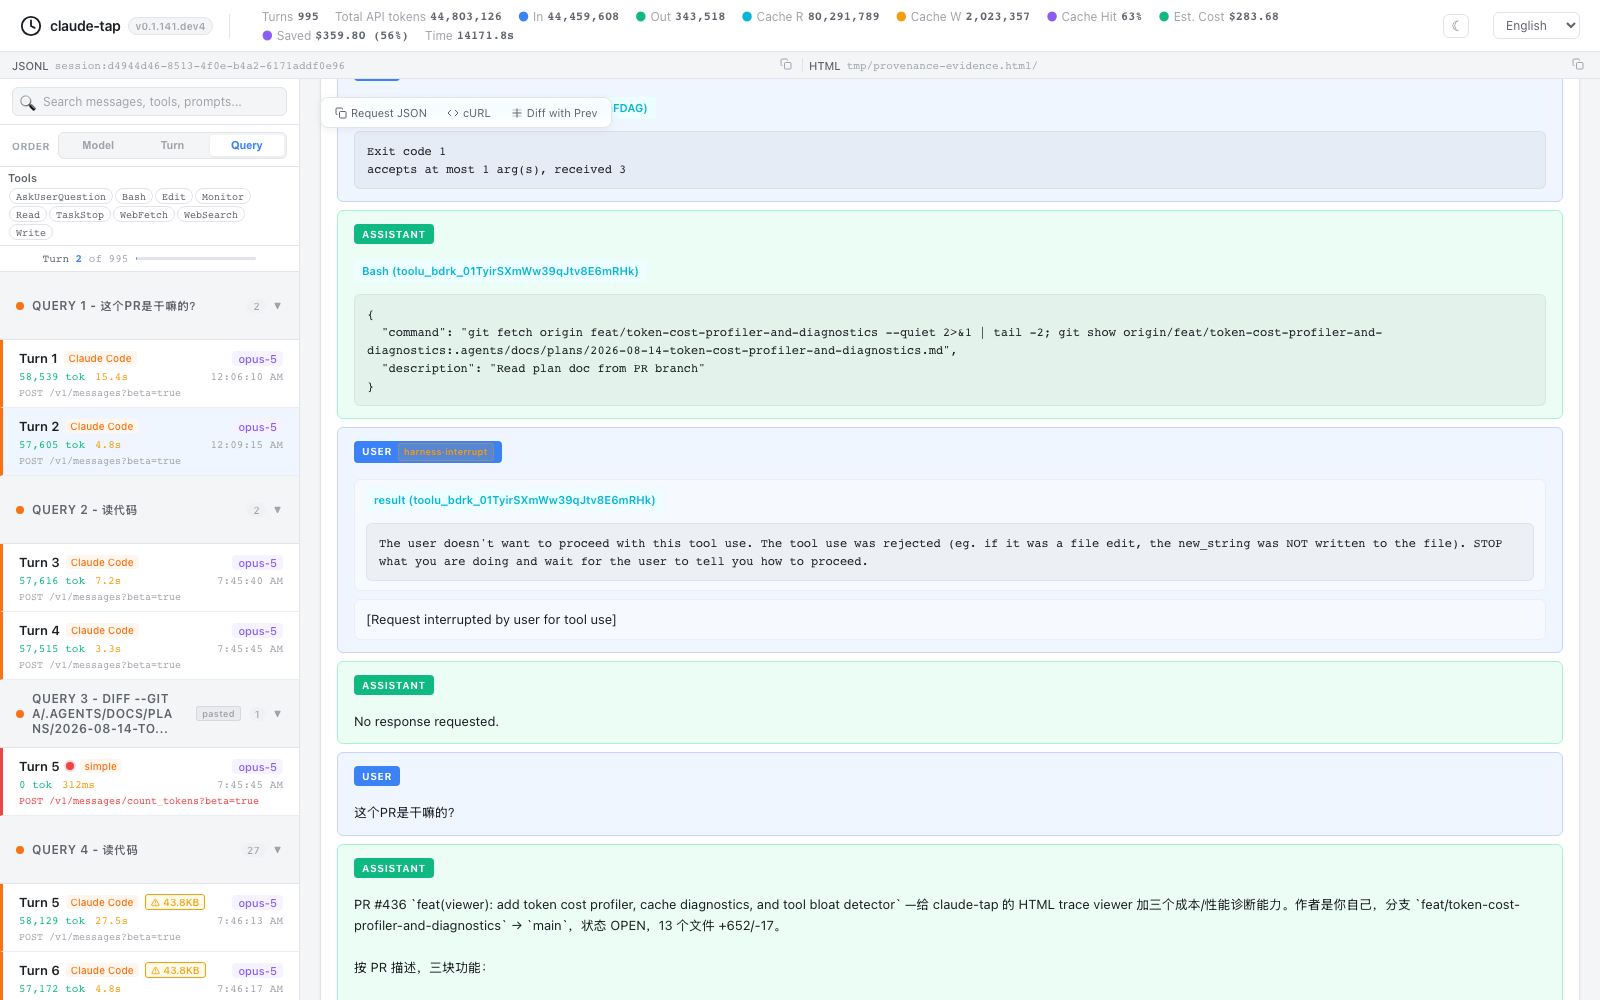
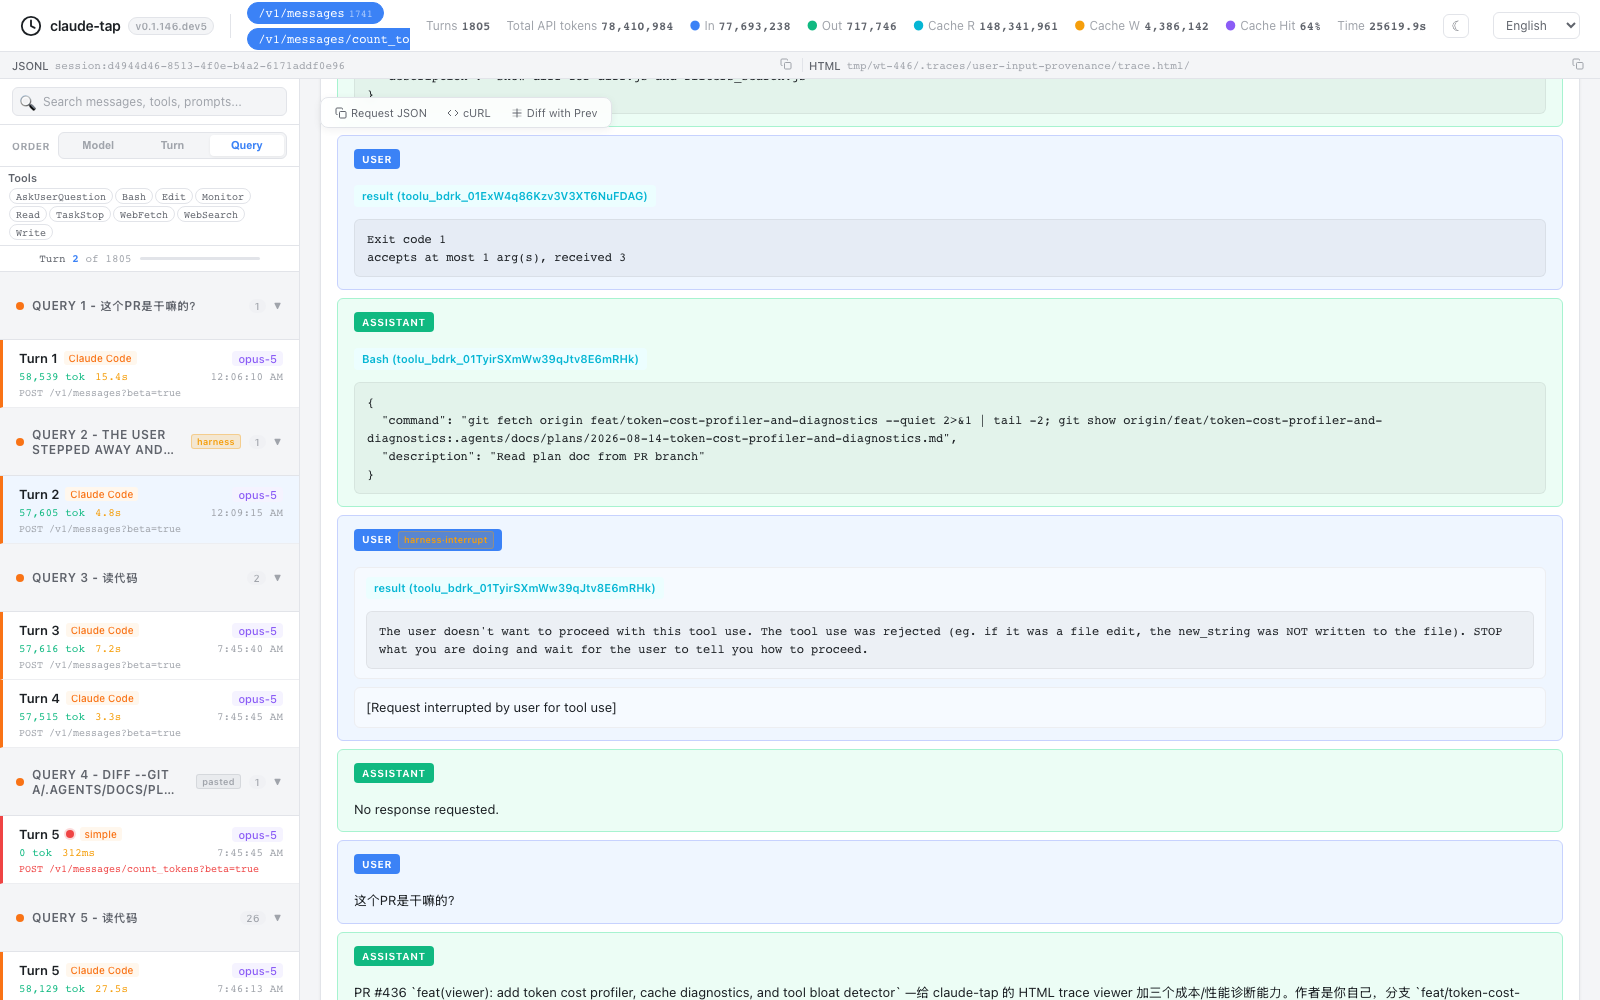
fix(viewer): keep the chosen input origin across the lazy boundary
A turn whose harness block is blanked by the cleaner takes its title from a
later pasted block while deliberately staying classified as harness. Lazy
metadata serialized only the title, so buildStubEntry rebuilt a bare string and
the browser reclassified it as payload: the same group changed its badge as a
capture crossed LAZY_THRESHOLD.

_session_user_title now returns the origin alongside the text and
_extract_metadata serializes it, omitted when it is the human default so large
captures gain no bytes per stub. The three stub fallbacks in sidebar.js read it
instead of guessing from the title, falling back to classification for stubs
written before the field existed.

Also refreshes both provenance evidence assets, which predated the group-title
clamp and still showed a three-line title.

diff --git a/claude_tap/viewer_assets/sidebar.js b/claude_tap/viewer_assets/sidebar.js
@@ -143,7 +143,15 @@ const HARNESS_INPUT_PATTERNS = [
   { kind: 'suggestion', re: /^\[SUGGESTION MODE:/i },
   { kind: 'subagent', re: /^CRITICAL: Respond with TEXT ONLY/i },
   { kind: 'subagent', re: /^Briefly inform the user about the task result/i },
-  { kind: 'subagent', re: /^Analyze if this message indicates/i },
+  /* `^Analyze if this message indicates` used to sit here. Unlike every other
+     entry it is ordinary English, so a human asking "Analyze if this message
+     indicates fraud or a billing mistake" was badged as harness-injected and lost
+     its group title. The other openers earn their place by being unmistakable
+     template text; this one only matched a template's opening words, and no
+     installed CLI build carries the full wording to anchor a longer pattern
+     against. A missed injection costs a badge; a false positive relabels what the
+     user actually typed, so this stays out until the emitted text can be quoted
+     from a capture. Mirrored in viewer.py's _HARNESS_PATTERNS. */
   { kind: 'compaction', re: /^This session is being continued from a previous conversation/i },
   { kind: 'websearch', re: /^Perform a web search for the query:/i },
   { kind: 'attachment', re: /^\[Image(\s*#\d+)?\]|^\[Image:\s*(original|source)/i },
@@ -467,6 +475,16 @@ function stubSessionUserText(entry) {
   return text && !looksLikeBinaryText(text) ? text : '';
 }
 
+/* Provenance for a stub title. Python already decided this against the full
+   message; re-reading the title text is a strictly worse guess, since the block
+   the title came from is no longer visible here. Falls back to reading the text
+   for stubs written before the origin was serialized. */
+function stubSessionUserOrigin(entry, text) {
+  const stored = String(entry?._session_user_origin || '').trim();
+  if (stored) return stored;
+  return classifyUserInputOrigin(text).origin || 'human';
+}
+
 function firstUserInputInfo(entry) {
   if (isProtobufNoiseEntry(entry)) {
     return { userText: '', userIndex: -1, messageCount: 0 };
@@ -493,8 +511,8 @@ function firstUserInputInfo(entry) {
   if (fallback) return fallback;
   const stubText = stubSessionUserText(entry);
   if (stubText) {
-    const { origin } = classifyUserInputOrigin(stubText);
-    return { userText: stubText, userIndex: 0, messageCount: Math.max(msgs.length, 1), origin: origin || 'human' };
+    const origin = stubSessionUserOrigin(entry, stubText);
+    return { userText: stubText, userIndex: 0, messageCount: Math.max(msgs.length, 1), origin };
   }
   return { userText: '', userIndex: -1, messageCount: msgs.length, origin: 'human' };
 }
@@ -517,8 +535,8 @@ function latestUserInputInfo(entry) {
   }
   const stubText = stubSessionUserText(entry);
   if (stubText) {
-    const { origin } = classifyUserInputOrigin(stubText);
-    return { userText: stubText, userIndex: 0, messageCount: Math.max(msgs.length, 1), origin: origin || 'human' };
+    const origin = stubSessionUserOrigin(entry, stubText);
+    return { userText: stubText, userIndex: 0, messageCount: Math.max(msgs.length, 1), origin };
   }
   return { userText: '', userIndex: -1, messageCount: msgs.length, origin: 'human' };
 }
@@ -535,9 +553,9 @@ function codexAppSessionInfo(entry) {
     userText,
     userIndex: first.userIndex,
     messageCount: first.messageCount,
-    /* The stub fallback has no classified provenance of its own, so it is read
-       off the text the way `firstUserInputInfo` reads its own stub. */
-    origin: first.userText ? first.origin : classifyUserInputOrigin(userText).origin,
+    /* The stub fallback carries the provenance Python chose, the way
+       `firstUserInputInfo` reads its own stub. */
+    origin: first.userText ? first.origin : stubSessionUserOrigin(entry, userText),
   };
 }
 

diff --git a/claude_tap/viewer_assets/renderers.js b/claude_tap/viewer_assets/renderers.js
@@ -446,11 +446,18 @@ function getMessages(body) {
             if (c.type === 'input_text' || c.type === 'output_text' || c.type === 'text') {
               /* Put the `output` fallback on `text` so `hasDisplayContent` and
                  `renderContent` -- which both read `text` for known types --
-                 keep the turn. An empty `text` string is a real value and must
-                 not reach for `output`; that matches eligibleUserTextBlocks. */
-              return typeof c.text === 'string' || typeof c.output !== 'string'
-                ? { type: c.type, text: c.text }
-                : { type: c.type, text: c.output };
+                 keep the turn. `text` wins only when it says something: an empty
+                 string is the shape these captures use to mean "the text is under
+                 `output`", and treating it as authoritative here discarded the
+                 only readable content the block had. `blockInputText` and its
+                 Python mirror both yield on blank text; this has to agree, or the
+                 same turn is titled from `output` above LAZY_THRESHOLD and left
+                 untitled below it. */
+              const blockText = typeof c.text === 'string' && c.text.trim() ? c.text : '';
+              if (blockText) return { type: c.type, text: blockText };
+              return typeof c.output === 'string'
+                ? { type: c.type, text: c.output }
+                : { type: c.type, text: c.text };
             }
             if (c.type === 'tool_use') return c;
             if (c.type === 'tool_result') return c;

diff --git a/claude_tap/viewer_assets/lazy_loading.js b/claude_tap/viewer_assets/lazy_loading.js
@@ -98,6 +98,12 @@ function buildStubEntry(meta, rawIdx) {
     duration_ms: meta.duration_ms || 0,
     transport: meta.transport || '',
     _session_user_text: meta.session_user_text || '',
+    /* Provenance chosen by `_session_user_title` in viewer.py. `body.messages`
+       above is a bare string, so classifying it again here cannot see which block
+       the title came from: a harness turn titled from a later pasted block would
+       come back as `payload` and the group would change its badge above
+       LAZY_THRESHOLD. Absent means `human`, the classifier's own default. */
+    _session_user_origin: meta.session_user_origin || '',
     request: {
       method: meta.method || '',
       path: meta.path || '',

diff --git a/tests/test_viewer_js_units.py b/tests/test_viewer_js_units.py
@@ -1084,6 +1084,36 @@ def test_viewer_split_js_core_units_run_without_playwright() -> None:
           assert.deepEqual(eligibleUserTextBlocks([{ type: 'input_text', text: 'what I typed', output: 'ignored' }]),
             ['what I typed'], 'output is the fallback, not an override');
 
+          /* The Responses rebuild in getMessages has to yield on blank text too.
+             It rebuilds each block with the text key alone, so keeping the empty
+             string there discarded the output before eligibleUserTextBlocks could
+             reach it: below LAZY_THRESHOLD the turn lost the title that the Python
+             metadata above it kept. */
+          const rebuiltEmptyText = getMessages({
+            input: [{ role: 'user', content: [{ type: 'input_text', text: '',
+              output: 'Perform a web search for the query: pricing' }] }],
+          });
+          assert.deepEqual(eligibleUserTextBlocks(rebuiltEmptyText[0].content),
+            ['Perform a web search for the query: pricing'],
+            'the rebuilt block must carry the output text, not the empty string');
+          const rebuiltRealText = getMessages({
+            input: [{ role: 'user', content: [{ type: 'input_text', text: 'what I typed', output: 'ignored' }] }],
+          });
+          assert.deepEqual(eligibleUserTextBlocks(rebuiltRealText[0].content),
+            ['what I typed'], 'a non-empty text still wins after the rebuild');
+
+          /* ── Ordinary prose beginning with "Analyze" is human ── */
+          /* A harness opener has to be unmistakable template text. This one was a
+             plain English stem, so a human question matched it and was badged as
+             harness-injected, yielding no group title and merging into the query
+             before it. */
+          const analyzeQuestion = 'Analyze if this message indicates fraud or a billing mistake';
+          assert.equal(classifyUserInputOrigin(analyzeQuestion).origin, 'human',
+            'a normal question must not be claimed by a template stem');
+          assert.equal(preferredUserTextForMessage({
+            role: 'user', content: [{ type: 'text', text: analyzeQuestion }],
+          }).text, analyzeQuestion, 'and it still titles its own group');
+
           /* ── A base-less class declaration is payload ── */
           const pastedClass = 'class Foo:\\n    def run(self):\\n        return 1\\n';
           assert.equal(classifyUserInputOrigin(pastedClass).origin, 'payload',
@@ -1323,18 +1353,24 @@ def test_viewer_split_js_core_units_run_without_playwright() -> None:
           assert.ok(rawRendered.includes('origin-harness'),
             'output-backed harness text must keep its provenance badge');
 
-          /* The text key still wins when both are present, and an empty string
-             is a real value rather than a reason to reach for output. */
+          /* The text key still wins when it says something. An empty one does
+             not: these captures write text as an empty string to mean the
+             readable text sits under output, so both mirrors yield on blank
+             text and the rebuild has to agree. This block used to assert the
+             opposite, which is how the rebuild came to drop the only readable
+             content an injected turn had. */
           const bothKeys = getMessages({
             input: [{
               role: 'user',
               content: [
                 { type: 'input_text', text: 'From text.', output: 'From output.' },
-                { type: 'input_text', text: '', output: 'Ignored.' },
+                { type: 'input_text', text: '', output: 'From the empty one.' },
               ],
             }],
           });
-          assert.deepEqual(eligibleUserTextBlocks(bothKeys[0].content), ['From text.']);
+          assert.deepEqual(eligibleUserTextBlocks(bothKeys[0].content),
+            ['From text.', 'From the empty one.'],
+            'a real text wins, a blank one yields to output');
 
           /* JSON prompt wrappers unwrap before classification, so a lazy
              Python title and the browser title stay the same prompt. */

diff --git a/claude_tap/viewer.py b/claude_tap/viewer.py
@@ -1319,7 +1319,15 @@ _HARNESS_PATTERNS = [
     re.compile(r"^\[SUGGESTION MODE:", re.IGNORECASE),
     re.compile(r"^CRITICAL: Respond with TEXT ONLY", re.IGNORECASE),
     re.compile(r"^Briefly inform the user about the task result", re.IGNORECASE),
-    re.compile(r"^Analyze if this message indicates", re.IGNORECASE),
+    # "^Analyze if this message indicates" used to sit here. Unlike every other
+    # entry it is ordinary English, so a human asking "Analyze if this message
+    # indicates fraud or a billing mistake" was badged as harness-injected and
+    # lost its group title. The other openers earn their place by being
+    # unmistakable template text; this one only matched a template's opening
+    # words, and no installed CLI build carries the full wording to anchor a
+    # longer pattern against. A missed injection costs a badge; a false positive
+    # relabels what the user actually typed, so this stays out until the emitted
+    # text can be quoted from a capture.
     re.compile(r"^This session is being continued from a previous conversation", re.IGNORECASE),
     re.compile(r"^Perform a web search for the query:", re.IGNORECASE),
     re.compile(r"^\[Image(\s*#\d+)?\]|^\[Image:\s*(original|source)", re.IGNORECASE),
@@ -1461,21 +1469,32 @@ def _preferred_user_text_for_message(message: dict) -> tuple[str, str]:
     return fallback or ("", "human")
 
 
-def _session_user_text(messages: list[dict]) -> str:
-    """Title text for a lazy-metadata session group.
+def _session_user_title(messages: list[dict]) -> tuple[str, str]:
+    """Title text and its provenance for a lazy-metadata session group.
 
     Scans newest first, so a cumulative request carrying human turn A followed by
     human turn B is titled by B rather than by the oldest prompt in its history.
     Messages left with no title -- an injection carrying no readable request -- are
     passed over, grouping an injected-only follow-up under the query it follows.
+
+    The origin travels with the text because it cannot be recovered from it. A
+    turn whose harness block is blanked by the cleaner and whose title therefore
+    comes from a later pasted block is deliberately kept as ``harness`` by
+    ``_preferred_user_text_for_message``; re-reading that title in the browser
+    would call it ``payload`` and relabel the group as the capture crosses
+    LAZY_THRESHOLD. Consumed by ``buildStubEntry`` in lazy_loading.js.
     """
     for message in reversed(messages):
         if message.get("role") != "user" or _is_tool_result_only_message(message):
             continue
-        text, _ = _preferred_user_text_for_message(message)
+        text, origin = _preferred_user_text_for_message(message)
         if text:
-            return text
-    return ""
+            return text, origin
+    return "", "human"
+
+
+def _session_user_text(messages: list[dict]) -> str:
+    return _session_user_title(messages)[0]
 
 
 def _extract_metadata(record_json: str) -> dict | None:
@@ -1624,6 +1643,8 @@ def _extract_metadata_from_record(r: dict) -> dict | None:
         else _cost_fields(model, usage, body, record=r, search_calls=search_calls)
     )
 
+    session_user_text, session_user_origin = _session_user_title(msgs)
+
     return {
         "turn": r.get("turn"),
         "request_id": r.get("request_id", ""),
@@ -1654,7 +1675,10 @@ def _extract_metadata_from_record(r: dict) -> dict | None:
         **cost_fields,
         "has_system": bool(sys_text),
         "message_count": len(msgs),
-        "session_user_text": _session_user_text(msgs),
+        "session_user_text": session_user_text,
+        # Only when it differs from the default the browser would infer anyway,
+        # so the common case adds no bytes to every stub in a large capture.
+        **({"session_user_origin": session_user_origin} if session_user_origin != "human" else {}),
         "cursor_turn": body.get("cursor_turn") if isinstance(body.get("cursor_turn"), int) else None,
         "cursor_step": body.get("cursor_step") if isinstance(body.get("cursor_step"), int) else None,
         "codex_app_session_id": codex_app_session_id,

diff --git a/tests/test_viewer_user_input_provenance.py b/tests/test_viewer_user_input_provenance.py
@@ -15,6 +15,7 @@ from claude_tap.viewer import (
     _eligible_user_text_blocks,
     _preferred_user_text_for_message,
     _session_user_text,
+    _session_user_title,
 )
 
 # Openers a harness wraps a user-role message in. Not prose the user typed, so
@@ -233,6 +234,32 @@ def test_a_badge_only_first_block_does_not_lock_in_an_empty_title() -> None:
     assert _preferred_user_text_for_message(first_wins) == ("diff --git a/a b/a\n+one", "payload")
 
 
+def test_lazy_metadata_carries_the_chosen_origin_not_just_the_title() -> None:
+    """The title alone cannot reproduce the decision, so the origin travels with it.
+
+    A blanked harness block followed by a pasted diff is deliberately kept as
+    harness while taking its title from the diff. Classifying that title again in
+    the browser says payload, so without this the same group changes its badge as
+    a capture crosses LAZY_THRESHOLD.
+    """
+    messages = [
+        _user(
+            _text("<system-reminder>\nBackground.\n</system-reminder>"),
+            _text("diff --git a/x b/x\n+line"),
+        )
+    ]
+    text, origin = _session_user_title(messages)
+    assert (text, origin) == ("diff --git a/x b/x\n+line", "harness")
+    # What the browser would infer from the serialized title on its own.
+    assert _classify_user_input_origin(text) == "payload"
+
+
+def test_session_title_origin_defaults_to_human() -> None:
+    """The common case stays absent from metadata, so the default has to agree."""
+    assert _session_user_title([_user(_text("Human turn"))]) == ("Human turn", "human")
+    assert _session_user_title([]) == ("", "human")
+
+
 def test_json_prompt_payloads_unwrap_before_classification() -> None:
     """The browser cleaner extracts {"prompt":"..."} before classifying.
 
@@ -301,6 +328,23 @@ def test_a_base_less_class_declaration_is_payload() -> None:
     assert _classify_user_input_origin(pasted) == "payload"
     text, origin = _preferred_user_text_for_message(_user(_text(pasted), _text("Why is this slow?")))
     assert (text, origin) == ("Why is this slow?", "human")
+
+
+def test_ordinary_prose_beginning_with_analyze_reads_as_human() -> None:
+    """A harness opener has to be unmistakable template text, not a plain English stem.
+
+    `^Analyze if this message indicates` matched a real subagent template, but it
+    also matches someone asking a normal question, and the pattern claimed the
+    whole sentence. That turn was badged harness-injected and yielded no group
+    title, so it merged into the query before it -- the user's own words relabelled
+    as something the harness wrote.
+    """
+    typed = "Analyze if this message indicates fraud or a billing mistake"
+    assert _classify_user_input_origin(typed) == "human"
+    assert _preferred_user_text_for_message(_user(_text(typed))) == (typed, "human")
+    # The openers that are unmistakable stay recognized.
+    assert _classify_user_input_origin("CRITICAL: Respond with TEXT ONLY, no tool calls") == "harness"
+    assert _classify_user_input_origin("Briefly inform the user about the task result") == "harness"
 
 
 def test_command_wrapper_tags_need_a_tag_boundary() -> None:
